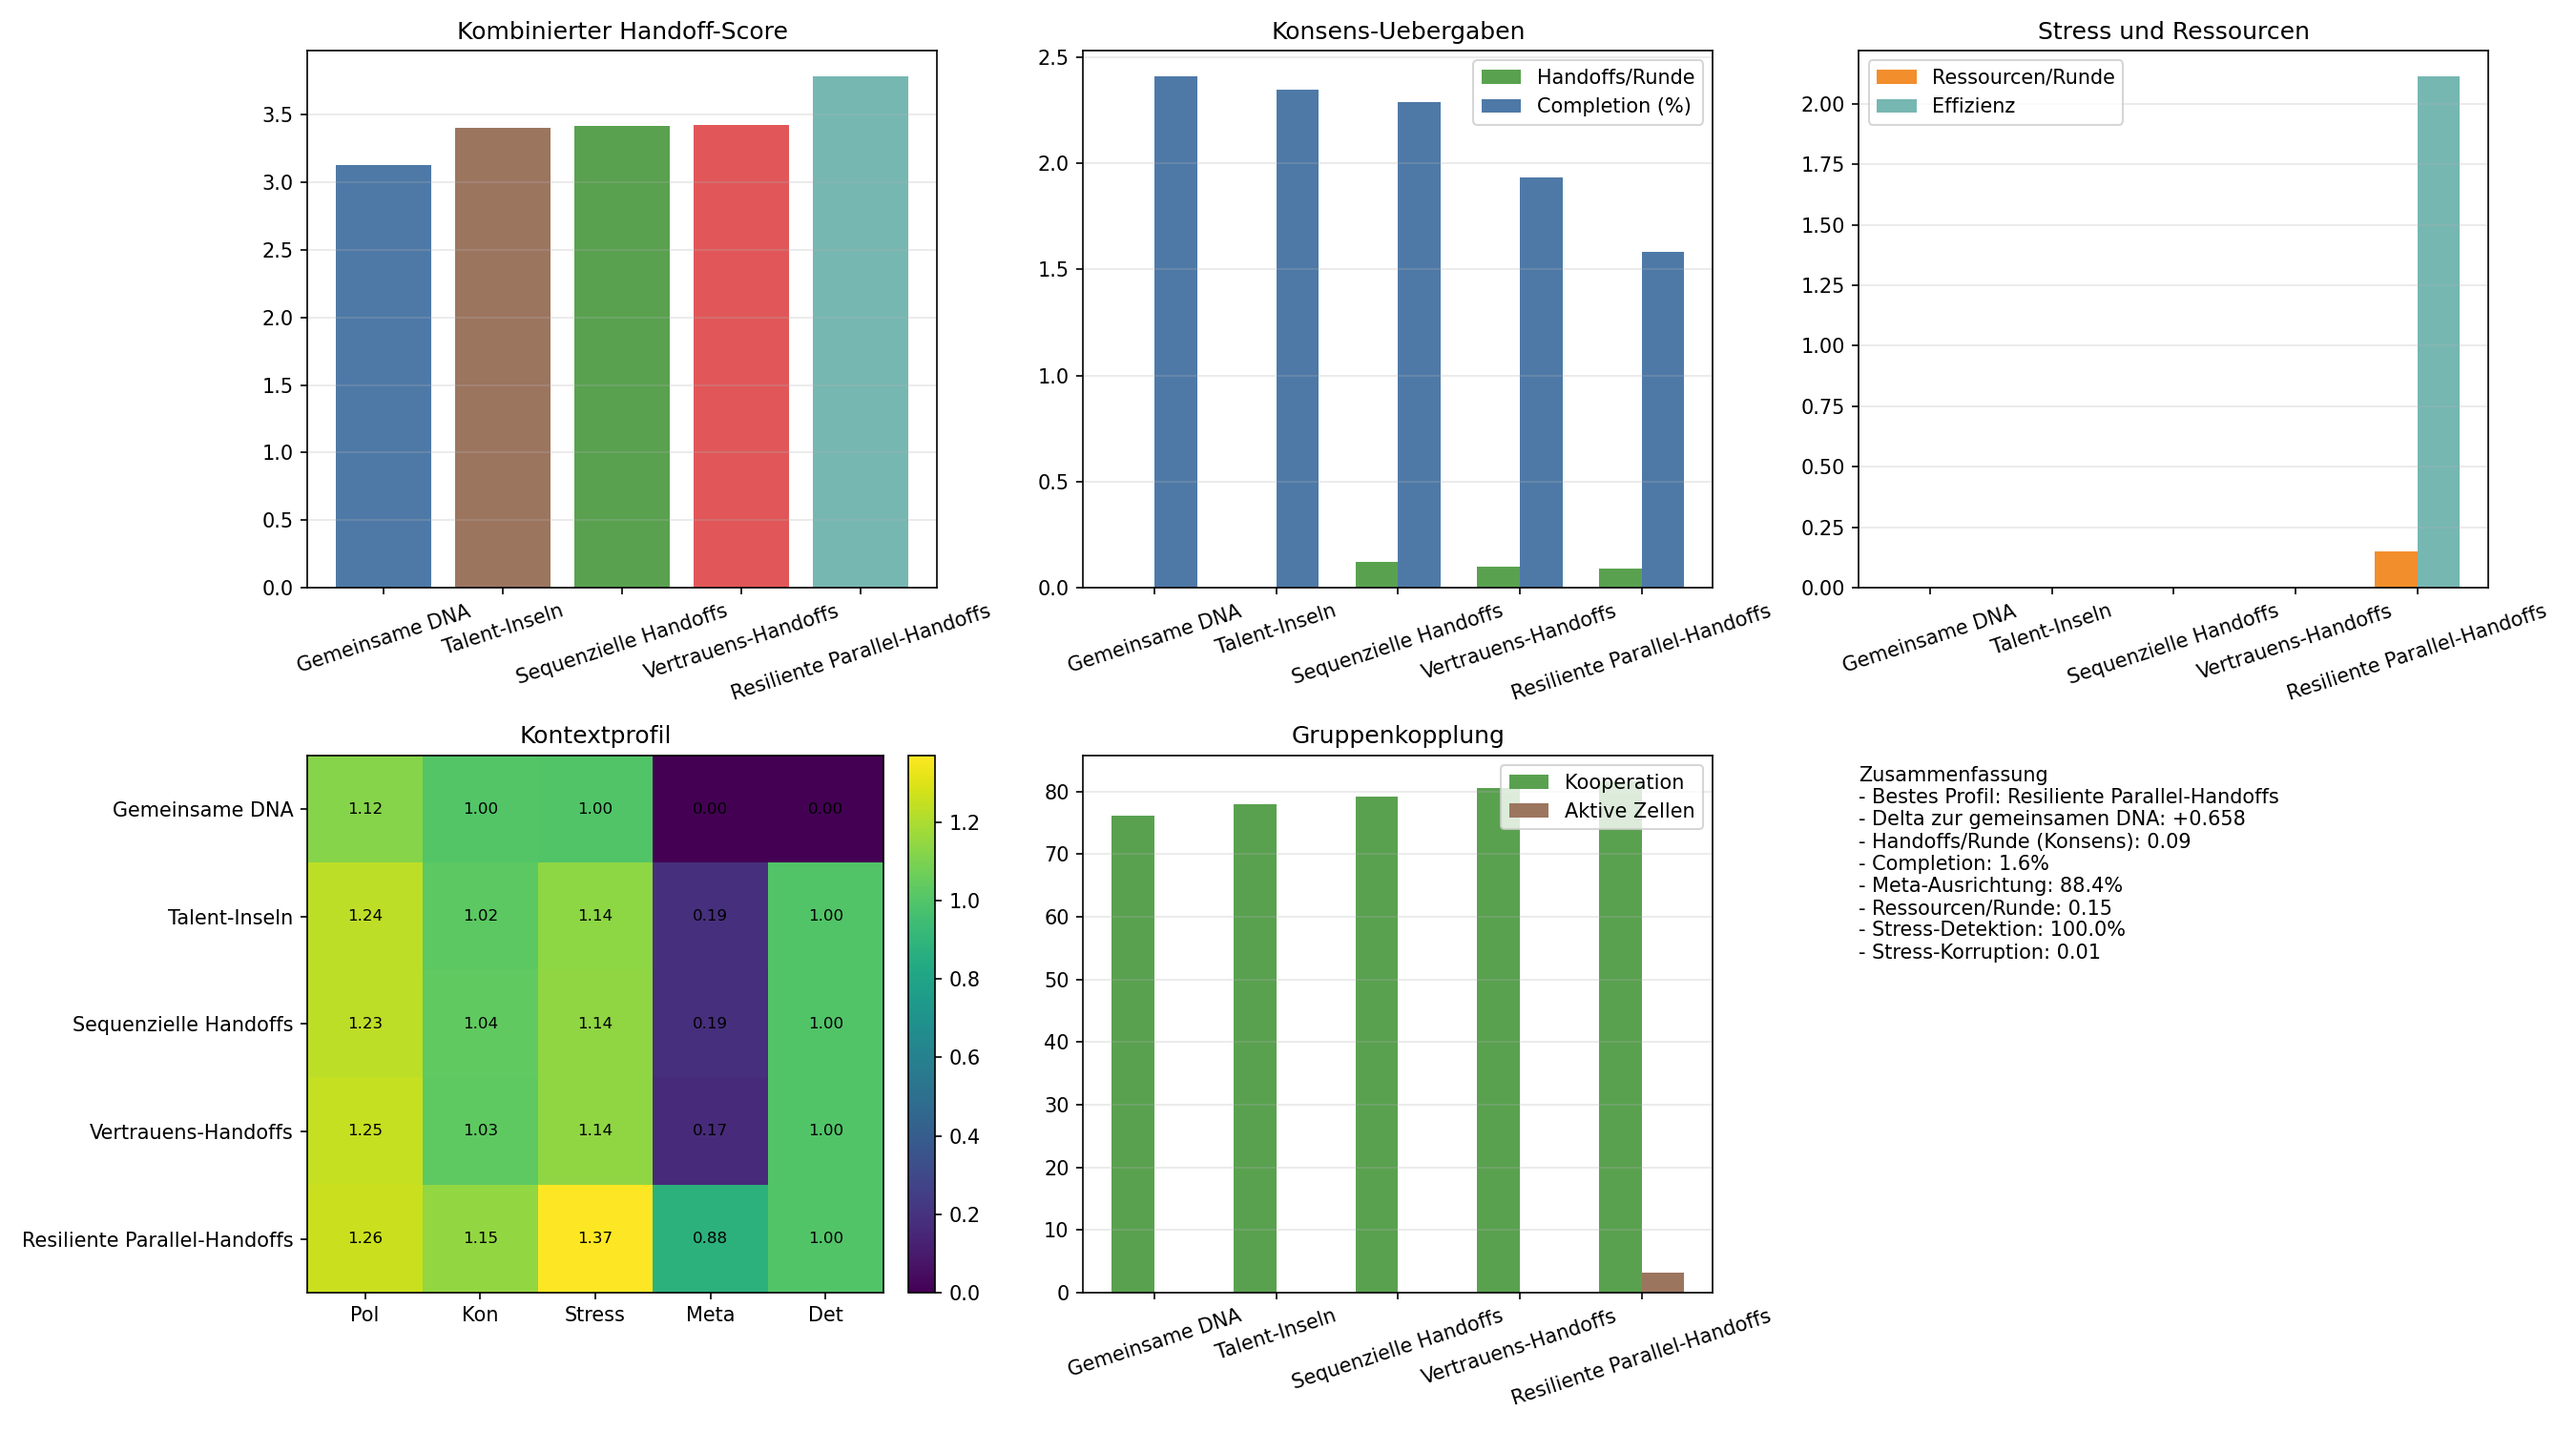
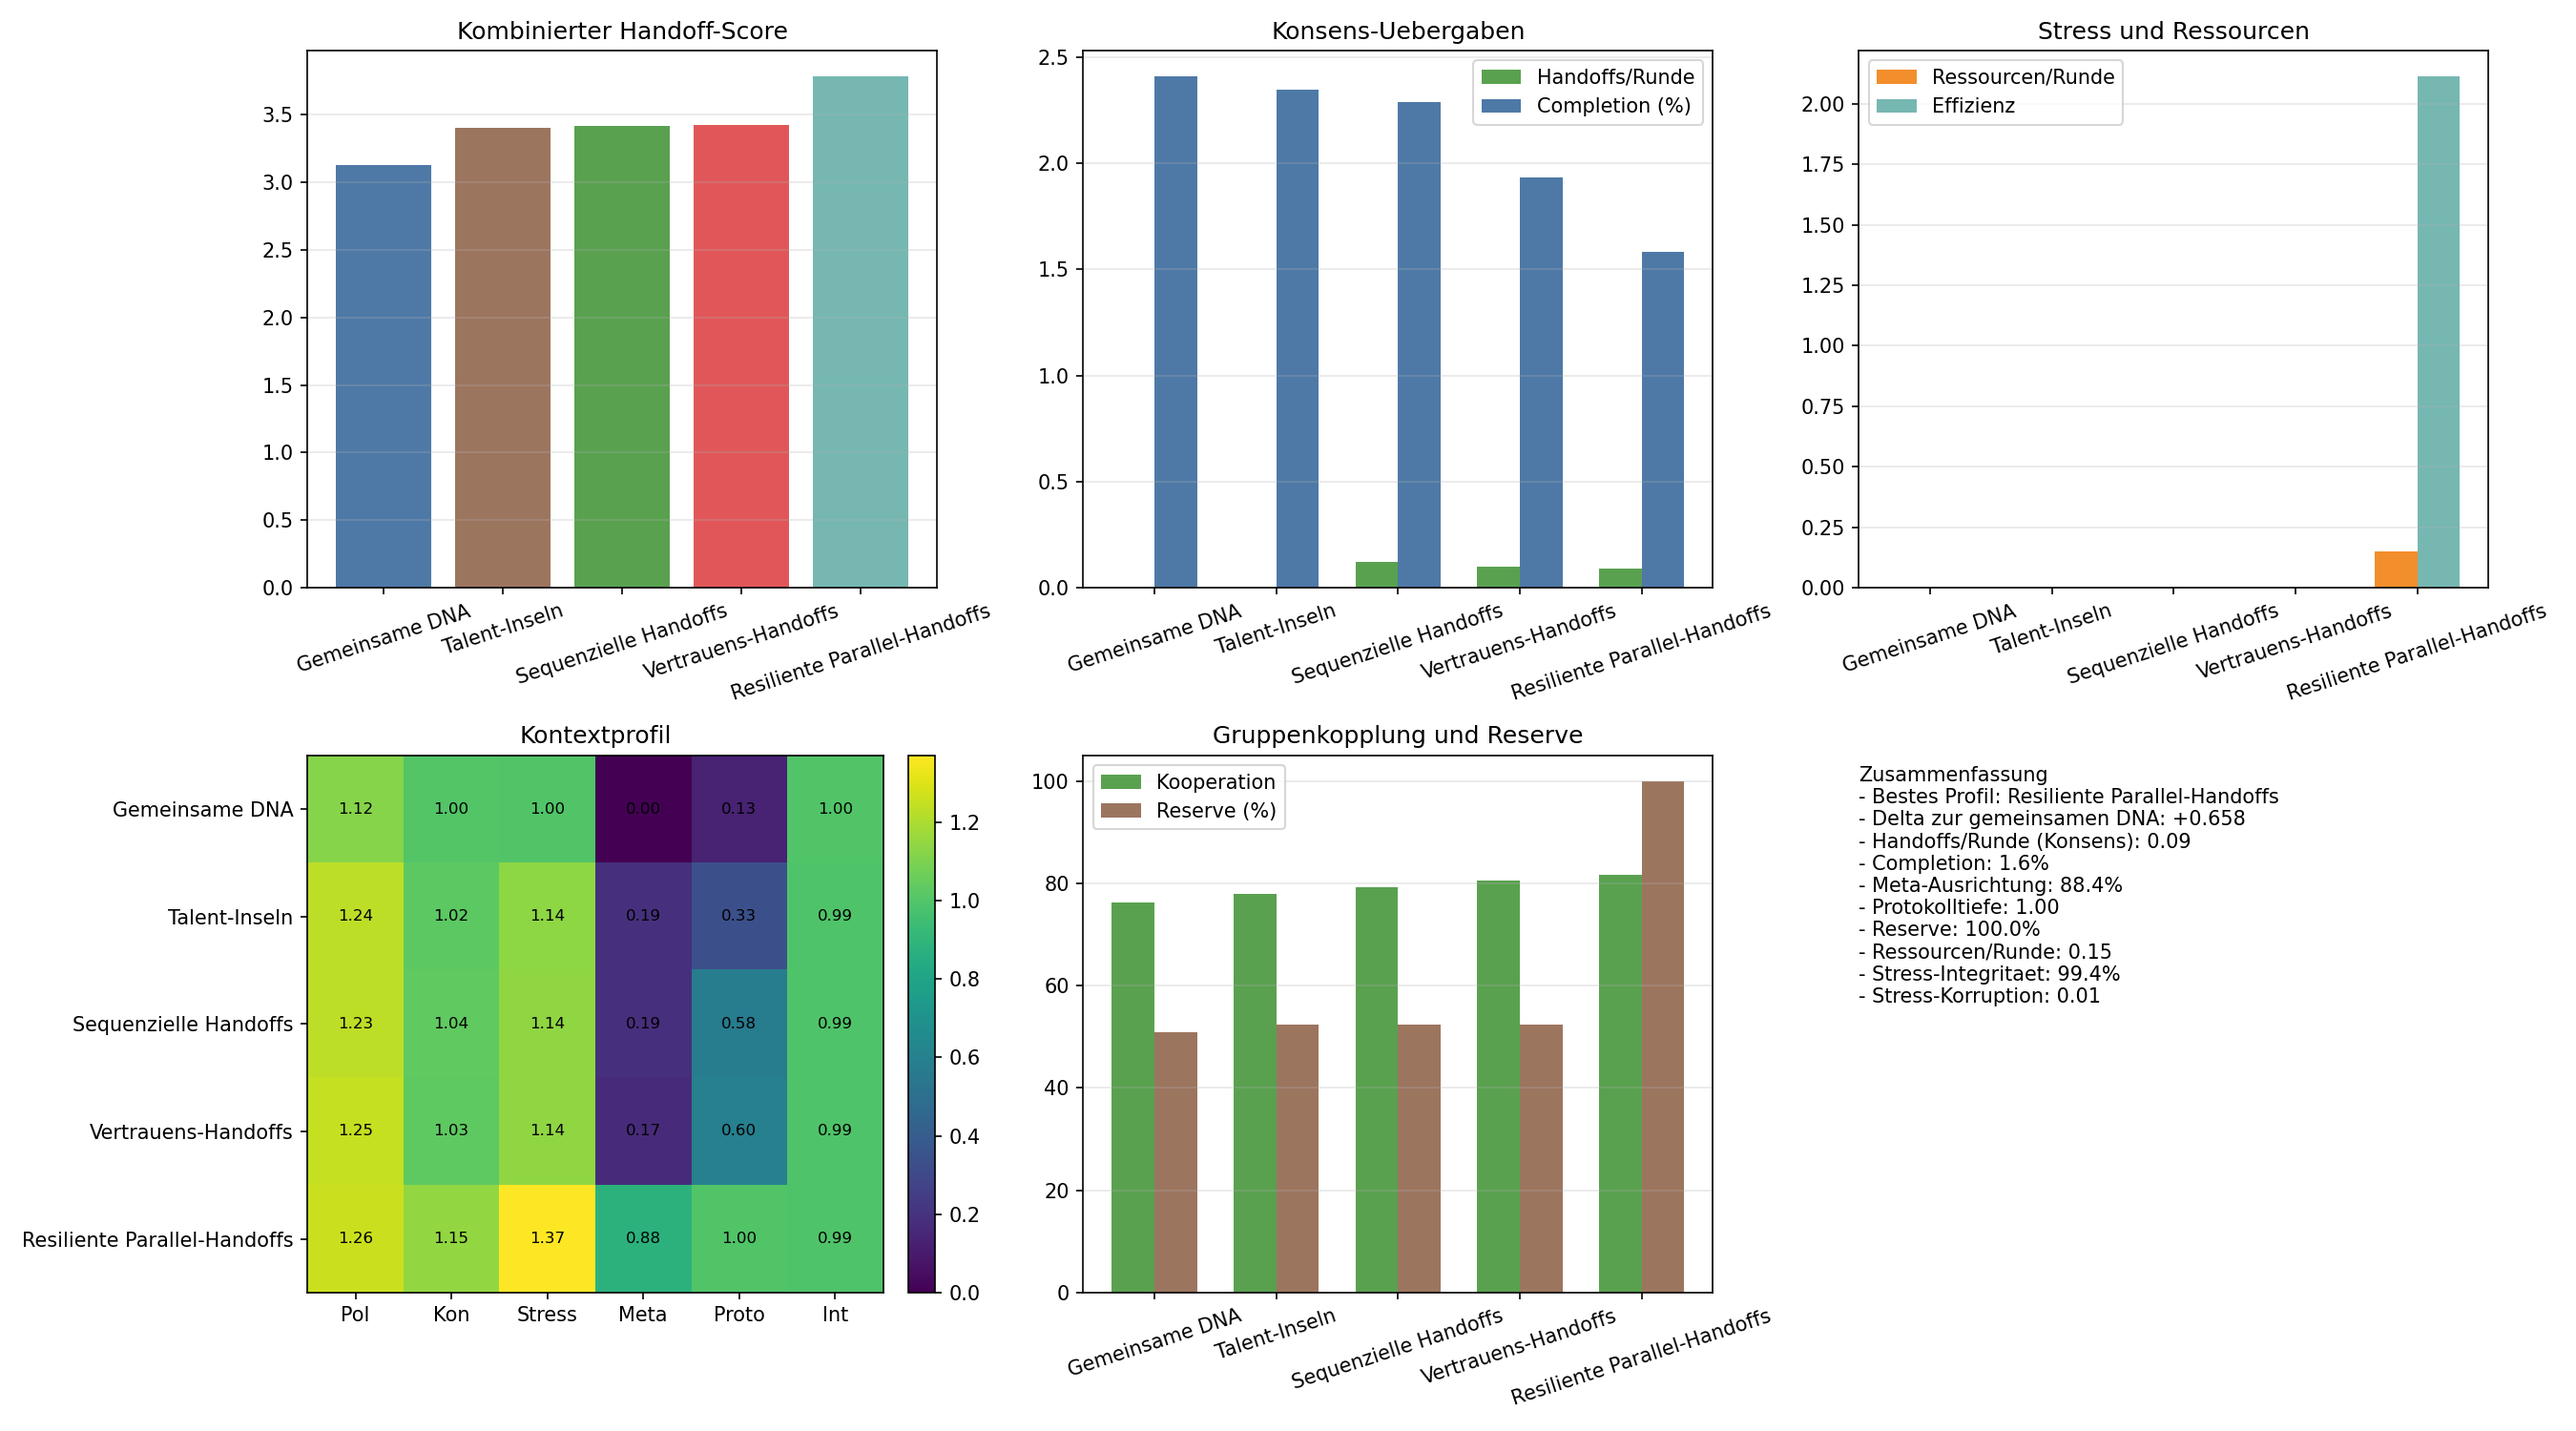
Refine group handoff study metrics

diff --git a/schwarm_gruppenhandoff.py b/schwarm_gruppenhandoff.py
@@ -133,6 +133,31 @@ def handoff_profiles(katalog):
     ]
 
 
+def handoff_protocol_metrics(config):
+    protocol_depth = mittelwert(
+        [
+            1.0 if config.get('enable_workflow_cells') else 0.0,
+            1.0 if config.get('enable_handoff_coordination') else 0.0,
+            1.0 if config.get('enable_parallel_workflow_cells') else 0.0,
+            1.0 if config.get('enable_resource_coordination') else 0.0,
+            min(1.0, float(config.get('handoff_priority_bonus', 0.0)) / 0.18),
+        ]
+    )
+    resilience_reserve = mittelwert(
+        [
+            1.0 if config.get('enable_parallel_workflow_cells') else 0.0,
+            1.0 if config.get('enable_resource_coordination') else 0.0,
+            min(1.0, float(config.get('resource_budget', 0.0)) / 0.62),
+            min(1.0, float(config.get('resource_share_factor', 0.0)) / 0.24),
+            min(1.0, float(config.get('meta_priority_strength', 0.0)) / 0.40),
+        ]
+    )
+    return {
+        'protocol_depth': protocol_depth,
+        'resilience_reserve': resilience_reserve,
+    }
+
+
 def handoff_metrics(result):
     workflow = result['workflow_metrics']
     return {
@@ -146,6 +171,7 @@ def handoff_metrics(result):
         'skill_alignment_rate': workflow.get('skill_alignment_rate', 0.0),
         'detection_rate': workflow.get('misinformation_detection_rate', 0.0),
         'corruption_mean': workflow.get('misinformation_corruption_mean', 0.0),
+        'stress_integrity': max(0.0, 1.0 - workflow.get('misinformation_corruption_mean', 0.0)),
         'cross_group_cooperation': result['cross_group_cooperation_rate'],
         'consensus': result['final_consensus_score'],
         'polarization': result['final_polarization_index'],
@@ -172,7 +198,9 @@ def run_context(seed, params, eintrag, kontext):
         config['enable_prompt_injection'] = False
 
     result = run_polarization_experiment(config, make_plot=False, print_summary=False)
-    result['handoff_metrics'] = handoff_metrics(result)
+    metrics = handoff_metrics(result)
+    metrics.update(handoff_protocol_metrics(config))
+    result['handoff_metrics'] = metrics
     return result
 
 
@@ -218,7 +246,10 @@ def summarize_runs(runs, eintrag, context_list):
         'skill_alignment_rate': {},
         'detection_rate': {},
         'corruption_mean': {},
+        'stress_integrity': {},
         'cross_group_cooperation': {},
+        'protocol_depth': {},
+        'resilience_reserve': {},
     }
 
     for kontext in context_list:
@@ -273,7 +304,8 @@ def main():
             f"{summary['label']:<30} Score={summary['combined_score']:+.3f} | "
             f"Handoffs={summary['handoff_rate']['consensus']:.2f} | "
             f"Completion={summary['completion_rate']['consensus']:.1%} | "
-            f"Stress-Detektion={summary['detection_rate']['stress']:.1%}"
+            f"Stress-Integritaet={summary['stress_integrity']['stress']:.1%} | "
+            f"Protokolltiefe={summary['protocol_depth']['consensus']:.2f}"
         )
 
     best = max(summaries, key=lambda item: item['combined_score'])
@@ -286,7 +318,8 @@ def main():
     print(
         f"Handoffs/Konsensrunde {best['handoff_rate']['consensus']:.2f}, "
         f"Completion {best['completion_rate']['consensus']:.1%}, "
-        f"Stress-Detektion {best['detection_rate']['stress']:.1%}"
+        f"Stress-Integritaet {best['stress_integrity']['stress']:.1%}, "
+        f"Reserve {best['resilience_reserve']['stress']:.1%}"
     )
 
     labels = [item['label'] for item in summaries]
@@ -349,7 +382,8 @@ def main():
                 item['context_scores']['consensus'],
                 item['context_scores']['stress'],
                 item['meta_alignment_rate']['consensus'],
-                item['detection_rate']['stress'],
+                item['protocol_depth']['consensus'],
+                item['stress_integrity']['stress'],
             ]
             for item in summaries
         ],
@@ -357,8 +391,8 @@ def main():
     )
     heatmap = axes[1, 0].imshow(heatmap_data, cmap='viridis', aspect='auto')
     axes[1, 0].set_title('Kontextprofil')
-    axes[1, 0].set_xticks([0, 1, 2, 3, 4])
-    axes[1, 0].set_xticklabels(['Pol', 'Kon', 'Stress', 'Meta', 'Det'])
+    axes[1, 0].set_xticks([0, 1, 2, 3, 4, 5])
+    axes[1, 0].set_xticklabels(['Pol', 'Kon', 'Stress', 'Meta', 'Proto', 'Int'])
     axes[1, 0].set_yticks(range(len(labels)))
     axes[1, 0].set_yticklabels(labels)
     for row in range(heatmap_data.shape[0]):
@@ -375,12 +409,12 @@ def main():
     )
     axes[1, 1].bar(
         x + width / 2,
-        [item['active_cells_mean']['consensus'] for item in summaries],
+        [item['resilience_reserve']['stress'] * 100.0 for item in summaries],
         width,
-        label='Aktive Zellen',
+        label='Reserve (%)',
         color='#9c755f',
     )
-    axes[1, 1].set_title('Gruppenkopplung')
+    axes[1, 1].set_title('Gruppenkopplung und Reserve')
     axes[1, 1].set_xticks(x)
     axes[1, 1].set_xticklabels(labels, rotation=18)
     axes[1, 1].legend()
@@ -397,8 +431,10 @@ def main():
             f"- Handoffs/Runde (Konsens): {best['handoff_rate']['consensus']:.2f}\n"
             f"- Completion: {best['completion_rate']['consensus']:.1%}\n"
             f"- Meta-Ausrichtung: {best['meta_alignment_rate']['consensus']:.1%}\n"
+            f"- Protokolltiefe: {best['protocol_depth']['consensus']:.2f}\n"
+            f"- Reserve: {best['resilience_reserve']['stress']:.1%}\n"
             f"- Ressourcen/Runde: {best['resource_share_rate']['stress']:.2f}\n"
-            f"- Stress-Detektion: {best['detection_rate']['stress']:.1%}\n"
+            f"- Stress-Integritaet: {best['stress_integrity']['stress']:.1%}\n"
             f"- Stress-Korruption: {best['corruption_mean']['stress']:.2f}"
         ),
         va='top',
@@ -406,7 +442,7 @@ def main():
     )
 
     fig.tight_layout()
-    save_and_maybe_show(plt, 'kki_gruppentalente.png'.replace('talente', 'handoff'), dpi=150)
+    save_and_maybe_show(plt, 'kki_gruppenhandoff.png', dpi=150)
 
 
 if __name__ == '__main__':
